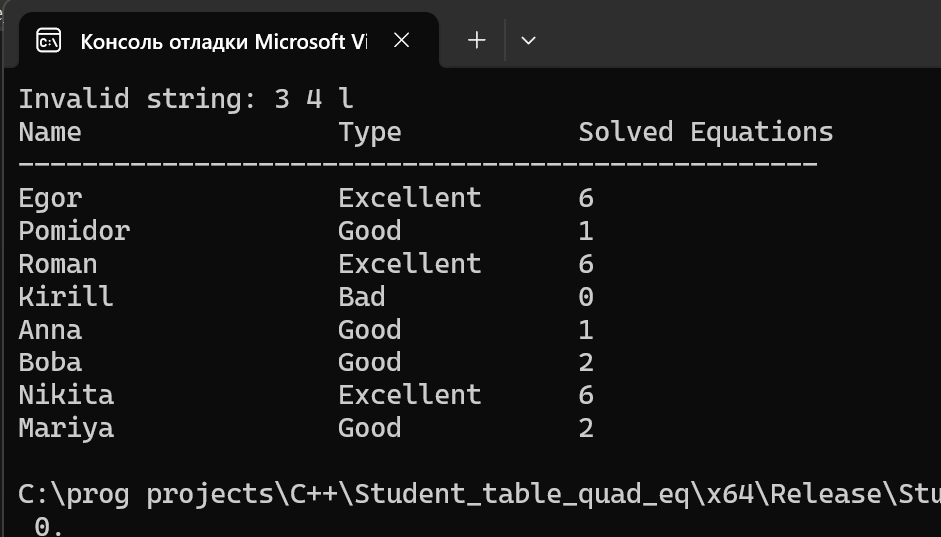
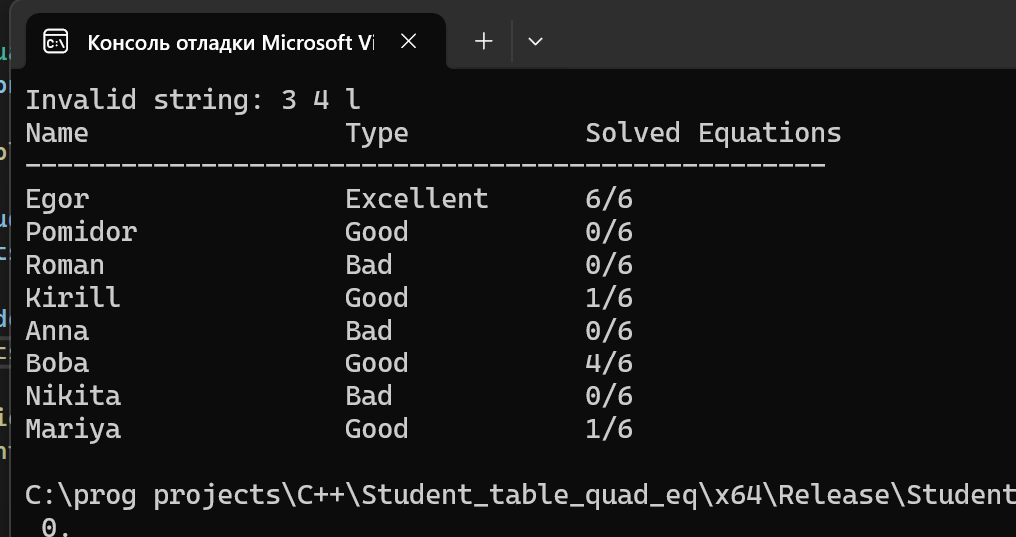
Добавил в таблице общее число уравнений для удобства

diff --git a/main.cpp b/main.cpp
@@ -81,7 +81,7 @@ void Teacher(Student* students, QuadraticEquation* equations) {
     }
 }
 
-void printStudentsTable(Student* head) {
+void printStudentsTable(Student* head, int eq_number) {
     std::cout << std::left << std::setw(20) << "Name" << std::setw(15) << "Type" << "Solved Equations" << std::endl;
     std::cout << std::string(50, '-') << std::endl;
     Student* current = head;
@@ -92,7 +92,7 @@ void printStudentsTable(Student* head) {
         case StudentType::GOOD: std::cout << std::setw(15) << "Good"; break;
         case StudentType::POOR: std::cout << std::setw(15) << "Bad"; break;
         }
-        std::cout << current->cnt << std::endl;
+        std::cout << current->cnt <<"/" << eq_number<< std::endl;
         current = current->next;
     }
 }
@@ -105,7 +105,8 @@ void deleteStudents(Student* head) {
     }
 }
 
-void solveEquations(QuadraticEquation* head) {
+int solveEquations(QuadraticEquation* head) {
+    int cnt = 0;
     QuadraticEquation* current = head;
     while (current) {
         double discriminant = current->b * current->b - 4 * current->a * current->c;
@@ -117,7 +118,9 @@ void solveEquations(QuadraticEquation* head) {
             current->root1 = current->root2 = -current->b / (2 * current->a);
         }
         current = current->next;
+        cnt += 1;
     }
+    return cnt;
 }
 
 QuadraticEquation* readEquationsFromFile(const std::string& filename) {
@@ -168,13 +171,13 @@ int main() {
     QuadraticEquation* equations = readEquationsFromFile("equations.txt");
     if (!equations) return 1;
 
-    solveEquations(equations);
+    int cnt = solveEquations(equations);
 
     Student* students = readStudentsFromFile("students.txt");
     if (!students) return 1;
 
     Teacher(students, equations);
-    printStudentsTable(students);
+    printStudentsTable(students, cnt);
 
     deleteEquations(equations);
     deleteStudents(students);
